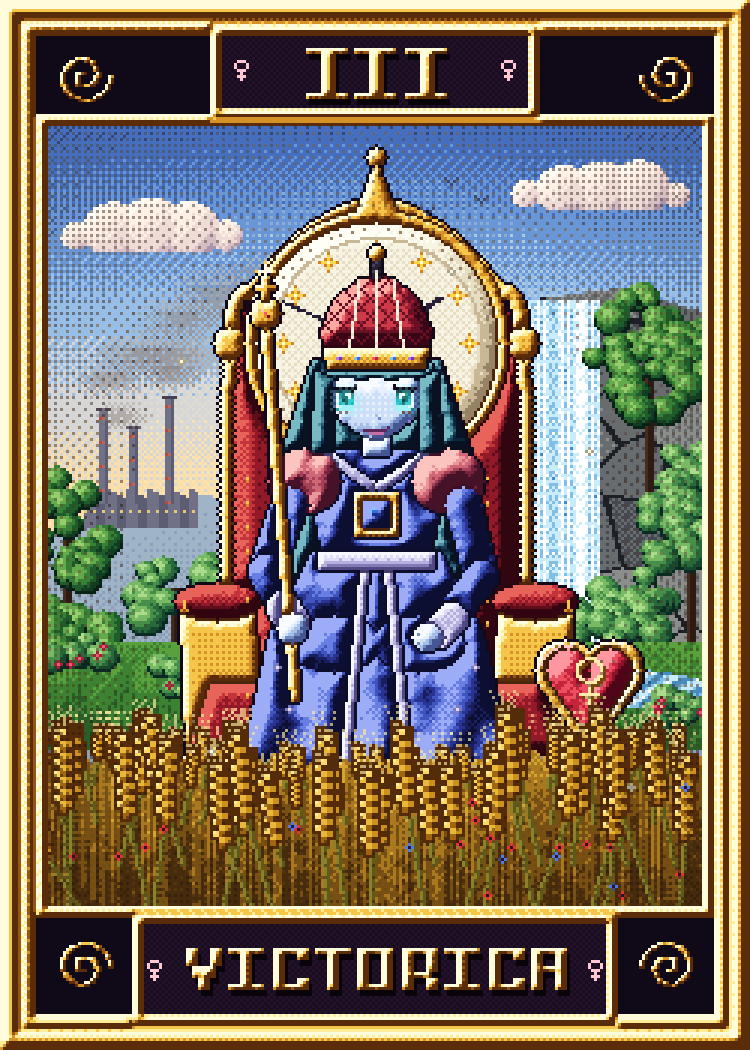
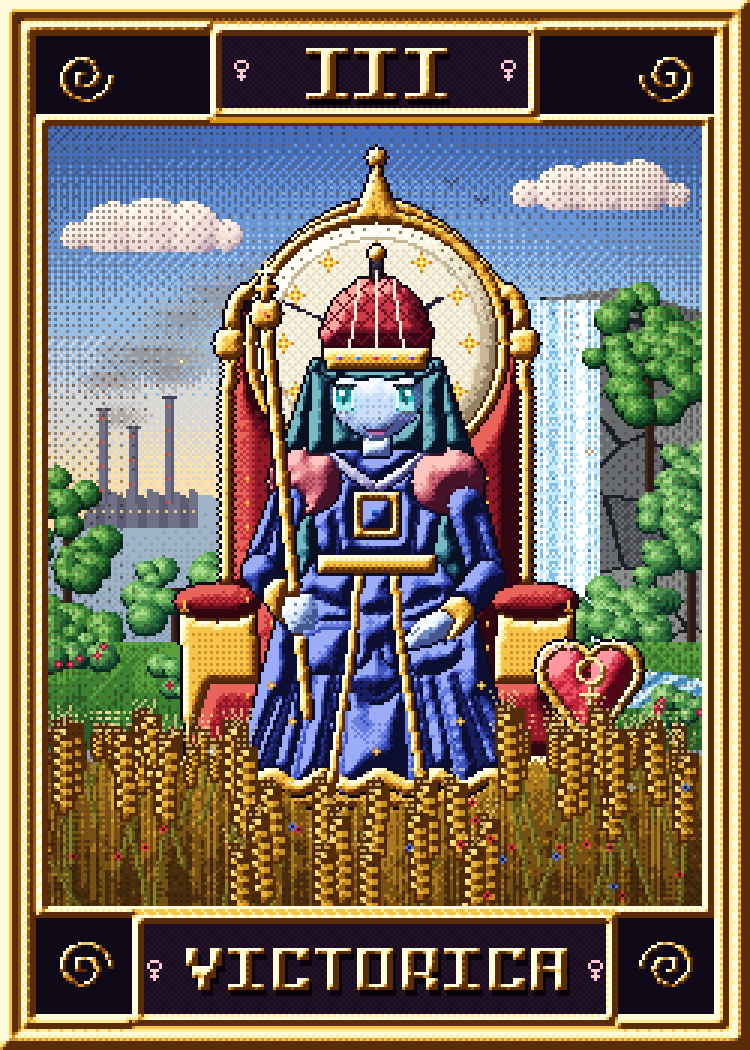
Tarot-Sleeves: Zwischenstand XII–XVI und III
Claude-Session: https://claude.ai/code/session_01HMsYu5Zq2Fg9ikmTkg7dDc

Changed region(s): [[0.276, 0.3048, 0.6747, 0.8838], [0.7053, 0.701, 0.736, 0.7314]]

diff --git a/data/sleeve-proposals/generator/tarot/t03_empress.py b/data/sleeve-proposals/generator/tarot/t03_empress.py
@@ -100,9 +100,11 @@ VELVET = [(50, 6, 16), (96, 14, 28), (146, 26, 40), (196, 52, 58), (232, 100, 90
 IVORY = [(150, 130, 100), (200, 184, 150), (232, 222, 196), (248, 244, 228), (255, 255, 246)]
 
 MATS = {
-    's': mat(SKINV, pillow=4, k=1.0, bias=0.14),
+    's': mat(SKINV, pillow=5, k=0.9, bias=0.06),
     'h': mat(HAIRV, pillow=4, k=1.8, noise=0.9, nscale=2, bias=0.05),
     'r': mat(ROBEB, pillow=5, k=1.5, folds=(0.3, 0.03, 0.7), bias=0.05),
+    'q': mat(ROBEB[:4], pillow=1, k=1.0, bias=-0.25),
+    'u': mat(ROBEB[2:], pillow=1, k=1.0, bias=0.1),
     'l': mat(LAV, pillow=2, k=1.3, bias=0.1),
     'p': mat(PINK, pillow=5, k=1.6, bias=0.05),
     'g': mat(GOLD, pillow=2, k=1.7, spec=True, spec_col=(255, 255, 230), bias=0.05),
@@ -162,37 +164,58 @@ f = Fig(W, H)
 # Haare hinten (lang, dunkeltürkis)
 f.part('hairB')
 f.poly([(104, 120), (146, 120), (156, 150), (158, 186), (150, 196), (100, 196), (92, 186), (94, 150)], 'h')
-# Kleid: Rock fällt über den Sitz
+# Kleid: Schoß (Oberschenkel nach vorn), Knie, dann fällt der Rock in Falten bis auf den Sockel
+hem = []
+for i in range(25):
+    x = 76 + i * (174 - 76) / 24
+    hem.append((x, 262 + 2 * math.sin(i * 1.4)))
 f.part('skirt')
-f.poly([(104, 184), (146, 184), (160, 210), (168, 246), (176, 264), (74, 264), (82, 246), (90, 210)], 'r')
-f.part('knees'); f.ellipse(111, 214, 15, 9, 'r'); f.ellipse(139, 214, 15, 9, 'r')
-f.part('hem'); f.poly([(76, 258), (174, 258), (177, 265), (73, 265)], 'l')
-f.part('panelL'); f.line(121, 190, 114, 258, 'l', w=2)
-f.part('panelR'); f.line(129, 190, 136, 258, 'l', w=2)
-# Oberkörper
+f.poly([(106, 186), (144, 186), (156, 200), (162, 222), (168, 246), (174, 262)] + hem[::-1] + [(76, 262), (82, 246), (88, 222), (94, 200)], 'r')
+f.part('lap', line=False); f.poly([(100, 196), (150, 196), (152, 214), (98, 214)], 'r')
+f.part('kneeL'); f.ellipse(110, 216, 13, 8, 'r')
+f.part('kneeR'); f.ellipse(140, 216, 13, 8, 'r')
+# Faltenwurf unterhalb der Knie: Täler (dunkel) und Grate (hell)
+f.part('folds', line=False)
+for (x0, y0, x1, y1, w0) in [(99, 224, 88, 258, 2.4), (111, 225, 106, 262, 1.8), (139, 225, 144, 262, 1.8), (151, 224, 162, 258, 2.4),
+                             (92, 232, 81, 258, 1.4), (158, 232, 169, 258, 1.4)]:
+    f.limb(x0, y0, x1, y1, 0.6, w0, 'q')
+for (x0, y0, x1, y1, w0) in [(105, 225, 97, 260, 1.4), (145, 225, 153, 260, 1.4), (116, 226, 113, 262, 1.0), (134, 226, 137, 262, 1.0)]:
+    f.limb(x0, y0, x1, y1, 0.5, w0, 'u')
+f.curve([(114, 222), (119, 230), (125, 233), (131, 230), (136, 222)], 'q', w=1.6)     # Mulde zwischen den Knien
+f.curve([(100, 212), (108, 208), (118, 208)], 'u', w=1.3); f.curve([(132, 208), (142, 208), (150, 212)], 'u', w=1.3)
+f.curve([(104, 198), (114, 202), (124, 204)], 'q', w=1.0); f.curve([(126, 204), (136, 202), (146, 198)], 'q', w=1.0)
+# goldene Borten: Saum und vordere Kante der Schleppe
+f.part('hemBorder'); f.curve([(hx, hy - 2) for hx, hy in hem], 'g', w=3)
+f.part('panelL'); f.curve([(119, 190), (117, 214), (113, 240), (110, 260)], 'g', w=2)
+f.part('panelR'); f.curve([(131, 190), (133, 214), (137, 240), (140, 260)], 'g', w=2)
+# Oberkörper (Mieder)
 f.part('torso')
-f.poly([(106, 150), (144, 150), (146, 166), (142, 188), (108, 188), (104, 166)], 'r')
+f.poly([(106, 150), (144, 150), (146, 166), (142, 190), (108, 190), (104, 166)], 'r')
+f.part('tfolds', line=False)
+f.limb(111, 170, 113, 186, 0.4, 1.0, 'q'); f.limb(139, 170, 137, 186, 0.4, 1.0, 'q')
 f.part('collarL'); f.line(107, 150, 124, 162, 'l', w=2)
 f.part('collarR'); f.line(143, 150, 126, 162, 'l', w=2)
 f.part('emblem'); f.rect(118, 164, 132, 178, 'g')
 f.part('emblemIn'); f.rect(121, 167, 129, 175, 'r')
-f.part('belt'); f.poly([(106, 184), (144, 184), (144, 189), (106, 189)], 'l')
+f.part('belt'); f.poly([(106, 185), (144, 185), (144, 190), (106, 190)], 'g')
 # Puffärmel (rosa-rot wie auf der Karte)
 f.part('puffL'); f.ellipse(101, 160, 12, 11, 'p')
 f.part('puffR'); f.ellipse(149, 160, 12, 11, 'p')
-# linker Arm (Betrachter): hält das Zepter
-f.part('armLl'); f.limb(96, 168, 88, 190, 6, 5.5, 'r')
-f.part('foreLl'); f.limb(88, 190, 96, 206, 5.5, 5, 'r')
-f.part('cuffLl'); f.limb(94, 202, 97, 207, 5.5, 5.5, 'l')
-f.part('scepter'); f.limb(98, 232, 88, 108, 1.8, 1.8, 'g')
+# linker Arm (Betrachter): Ellbogen nach außen, Hand umfasst das Zepter vor dem Knie
+f.part('armLl'); f.limb(95, 168, 86, 190, 6, 5.5, 'r')
+f.part('armLf', line=False); f.limb(92, 172, 87, 186, 0.4, 1.2, 'q')
+f.part('foreLl'); f.limb(86, 190, 96, 202, 5.5, 5, 'r')
+f.part('cuffLl'); f.limb(93, 198, 96, 202, 5.5, 5.5, 'g')
+f.part('scepter'); f.limb(102, 238, 88, 108, 1.8, 1.8, 'g')
 f.part('scepterOrb'); f.ellipse(88, 104, 5, 5, 'g')
 f.part('scepterCross'); f.rect(87, 92, 89, 99, 'g'); f.rect(85, 95, 91, 96, 'g')
-f.part('handLl'); f.ellipse(97, 209, 5, 5, 's')
-# rechter Arm: ruht auf dem Knie
-f.part('armRr'); f.limb(154, 168, 160, 192, 6, 5.5, 'r')
-f.part('foreRr'); f.limb(160, 192, 146, 210, 5.5, 5, 'r')
-f.part('cuffRr'); f.limb(150, 206, 146, 210, 5.5, 5.5, 'l')
-f.part('handRr'); f.ellipse(142, 212, 5, 4.5, 's')
+f.part('handLl'); f.poly([(95, 199), (103, 198), (105, 203), (104, 209), (97, 210), (94, 205)], 's')
+# rechter Arm: Unterarm liegt auf dem Oberschenkel, Hand ruht auf dem Knie
+f.part('armRr'); f.limb(155, 168, 162, 192, 6, 5.5, 'r')
+f.part('armRf', line=False); f.limb(158, 172, 162, 188, 0.4, 1.2, 'q')
+f.part('foreRr'); f.limb(162, 192, 148, 208, 5.5, 5, 'r')
+f.part('cuffRr'); f.limb(152, 204, 149, 207, 5.5, 5.5, 'g')
+f.part('handRr'); f.poly([(146, 203), (140, 206), (135, 212), (136, 215), (142, 214), (148, 211), (150, 206)], 's')
 # Kopf
 f.part('neck'); f.rect(121, 141, 129, 151, 's')
 cx, cy = 125, 128
@@ -202,8 +225,8 @@ f.poly([(cx - 15, cy + 3), (cx + 15, cy + 3), (cx + 12, cy + 11), (cx + 5, cy + 
 f.part('bangs')      # gerader Pony (Hime-Schnitt)
 f.poly([(cx - 18, cy + 2), (cx - 18, cy - 7), (cx - 12, cy - 11), (cx + 12, cy - 11), (cx + 18, cy - 7), (cx + 18, cy + 2),
         (cx + 15, cy - 2), (cx + 10, cy - 3), (cx + 5, cy - 2), (cx, cy - 3), (cx - 5, cy - 2), (cx - 10, cy - 3), (cx - 15, cy - 2)], 'h')
-f.part('lockL'); f.poly([(cx - 20, cy - 4), (cx - 15, cy - 2), (cx - 15, cy + 22), (cx - 21, cy + 22)], 'h')
-f.part('lockR'); f.poly([(cx + 20, cy - 4), (cx + 15, cy - 2), (cx + 15, cy + 22), (cx + 21, cy + 22)], 'h')
+f.part('lockL'); f.poly([(cx - 21, cy - 4), (cx - 16, cy - 2), (cx - 16, cy + 22), (cx - 22, cy + 22)], 'h')
+f.part('lockR'); f.poly([(cx + 21, cy - 4), (cx + 16, cy - 2), (cx + 16, cy + 22), (cx + 22, cy + 22)], 'h')
 # Krone: hohe rote Haube mit goldenen Spangen
 f.part('crown')
 f.poly([(cx - 16, cy - 8), (cx - 18, cy - 18), (cx - 14, cy - 28), (cx - 6, cy - 35), (cx, cy - 36), (cx + 6, cy - 35), (cx + 14, cy - 28),
@@ -225,19 +248,28 @@ def inside(x, y):
     return fig[int(y), int(x), 3] > 0 and tuple(cv.a[int(y), int(x)]) != OUT
 
 # ---------------------------------------------------------------- Gesicht (geisterhaft blau, leuchtende Augen)
-EYE = (40, 220, 230)
-big_eye(cv, 112, 129, EYE, w=6, h=8, glow_=True)
-big_eye(cv, 132, 129, EYE, w=6, h=8, flip=True, glow_=True)
+EYE = (30, 200, 214)
+big_eye(cv, 112, 128, EYE, w=6, h=9, glow_=True)
+big_eye(cv, 132, 128, EYE, w=6, h=9, flip=True, glow_=True)
 for (ex, ey) in [(115, 133), (135, 133)]:
-    glow(cv, ex, ey, 7, (120, 255, 250), k=0.5, mix=0.25)
-for x in range(113, 119): px(cv, x, 125, HAIRV[1])
-for x in range(132, 138): px(cv, x, 125, HAIRV[1])
-px(cv, 125, 138, SKINV[2]); px(cv, 126, 139, SKINV[1])
-# königliches, leicht spöttisches Lächeln
-for x in range(122, 129): px(cv, x, 143, (90, 40, 90))
-px(cv, 129, 142, (90, 40, 90)); px(cv, 121, 143, (90, 40, 90))
-for x in range(123, 128): px(cv, x, 144, (200, 110, 170))
-blush(cv, 113, 140, (170, 150, 240)); blush(cv, 135, 140, (170, 150, 240))
+    glow(cv, ex, ey, 7, (120, 255, 250), k=0.45, mix=0.22)
+# Brauen: elegant geschwungen, leicht hochmütig
+for (bx, d) in [(112, 1), (132, -1)]:
+    for i in range(6):
+        yb = 124 - (1 if (d > 0 and i >= 3) or (d < 0 and i <= 2) else 0)
+        px(cv, bx + i, yb, HAIRV[0])
+# Nase, Mund (spöttisches Lächeln, dunkles Lila), Wangen-/Kinnkontur
+px(cv, 126, 139, SKINV[1]); px(cv, 125, 140, SKINV[2])
+MC = (70, 30, 80)
+for x in range(122, 129): px(cv, x, 143, MC)
+px(cv, 129, 142, MC); px(cv, 130, 141, MC); px(cv, 121, 142, MC)
+for x in range(123, 128): px(cv, x, 144, (190, 110, 170))
+for (x, y) in [(113, 139), (112, 138), (114, 141), (137, 139), (138, 138), (136, 141), (118, 145), (132, 145), (121, 146), (129, 146)]:
+    px(cv, x, y, SKINV[1])
+for (bx, by) in [(113, 139), (133, 139)]:
+    for dx in range(5):
+        if (bx + dx + by) % 2 == 0:
+            blend_px(cv, bx + dx, by, (200, 150, 240), 0.6)
 # Krone: Rautenmuster + Spangen + Juwelen (wie das Karomuster auf der Karte)
 for y in range(cy - 40, cy - 12):
     for x in range(cx - 18, cx + 19):
@@ -255,9 +287,9 @@ for (x, y, c) in [(cx - 12, cy - 9, AMETH), (cx, cy - 9, RUBY), (cx + 12, cy - 9
 for (dx, dy, c) in [(0, 0, SAPH[2]), (1, 0, SAPH[2]), (0, 1, SAPH[1]), (1, 1, SAPH[1]), (0, -1, SAPH[3]), (-1, 0, SAPH[3])]:
     px(cv, 125 + dx - 1, 171 + dy - 1, c)
 # Sterne auf dem Rock (Lavendel)
-for (x, y) in [(96, 236), (152, 236), (104, 250), (146, 250), (92, 222), (158, 222)]:
+for (x, y) in [(97, 240), (153, 240), (125, 250), (90, 228), (160, 228)]:
     if inside(x, y):
-        sparkle(cv, x, y, LAV[3], r=1, c2=LAV[1])
+        sparkle(cv, x, y, GOLD[4], r=1, c2=GOLD[2])
 # Venus-Zeichen auf dem Schild (gold auf rotem Email)
 VX, VY = SHX, SHY - 7
 for (col, off) in [(GOLD7[1], 1), (GOLD7[5], 0)]:
@@ -278,8 +310,17 @@ for (tx, ty) in [(61, 200), (189, 200), (66, 250), (184, 250)]:
         px(cv, tx, ty + k, GOLD[3] if k < 3 else GOLD[1])
     px(cv, tx - 1, ty + 3, GOLD[2]); px(cv, tx + 1, ty + 3, GOLD[2])
 # Finger
-for (fx, fy) in [(100, 207), (100, 210), (139, 211), (139, 214)]:
-    px(cv, fx, fy, SKINV[1])
+# Finger um das Zepter (quer über den Stab) und auf dem Knie
+for fy in (201, 204, 207):
+    for fx in range(96, 104):
+        if (fx + fy) % 3 != 0 and inside(fx, fy):
+            px(cv, fx, fy, SKINV[1]) if fx in (96, 103) or fy == 207 else None
+for fy in (201, 204, 207):
+    px(cv, 98, fy, SKINV[1]); px(cv, 101, fy, SKINV[1])
+px(cv, 100, 199, SKINV[4]); px(cv, 101, 199, SKINV[4])
+for (x0, y0) in [(139, 209), (141, 210), (143, 209)]:
+    px(cv, x0, y0, SKINV[1]); px(cv, x0 - 1, y0 + 1, SKINV[1]); px(cv, x0 - 2, y0 + 2, SKINV[1])
+px(cv, 147, 205, SKINV[4]); px(cv, 145, 206, SKINV[4])
 
 # ---------------------------------------------------------------- Weizenfeld (vorne)
 WHEAT = [(110, 60, 10), (160, 100, 18), (204, 144, 30), (234, 184, 56), (250, 214, 100), (255, 238, 160)]
@@ -328,7 +369,7 @@ nw = noise(H, W, 3, seed=44)
 FIELD = [(70, 44, 12), (120, 80, 20), (170, 120, 30), (212, 164, 50), (240, 206, 100)]
 for y in range(250, AY1):
     for x in range(AX0, AX1):
-        top = 252 + math.sin(x * 0.45) * 1.5 + math.sin(x * 1.3) * 1.0
+        top = 252 + math.sin(x * 0.45) * 1.5 + math.sin(x * 1.3) * 1.0 + 16 * math.exp(-((x - 125) / 46) ** 4)
         if y >= top:
             # dichte senkrechte Halme: helle/dunkle Striche, oben heller
             ph = (x * 0.9 + math.sin(x * 0.37) * 3) % 3
@@ -342,8 +383,10 @@ for (yb, L, wd, n) in rows:
         x0 = AX0 + (i + 0.2 + rnd.random() * 0.6) * (AX1 - AX0) / n
         lean = rnd.uniform(-0.35, 0.35)
         hgt = (yb - 244) * rnd.uniform(0.45, 0.7)
-        if abs(x0 - 125) < 40 and yb < 290:
-            hgt *= 0.4
+        if abs(x0 - 125) < 46:
+            if yb < 280:
+                continue                     # vor dem Saum keine hohen Ähren
+            hgt *= 0.2
         ex, ey = x0 + math.sin(lean) * hgt, yb - hgt
         stalk(x0, min(AY1 - 1, yb), ex, ey)
         ear(int(ex), int(ey), L, wd, lean * 0.3)

diff --git a/data/sleeve-proposals/generator/tarot/t16_tower.py b/data/sleeve-proposals/generator/tarot/t16_tower.py
@@ -138,12 +138,13 @@ for (wx, wy, sd) in WINS:
 FL = Fig(W, H)
 FL.part('f', line=False)
 for (wx, wy, sd) in WINS:
-    for i, dx in enumerate((-3, -1, 1, 3)):
-        L = [13, 17, 15, 11][i] + rnd.uniform(-2, 2)
-        bend = sd * (1.5 + i * 0.6)
-        base = wy - 5
-        FL.poly([(wx + dx - 2, base + 2), (wx + dx + 2, base + 2), (wx + dx + bend * 0.6 + 1, base - L * 0.5),
-                 (wx + dx + bend, base - L), (wx + dx + bend * 0.4 - 1.5, base - L * 0.45)], 'f')
+    base = wy - 4
+    for i, dx in enumerate((-2, 0, 2)):
+        L = [12, 18, 11][i] + rnd.uniform(-2, 2)
+        wob = rnd.uniform(-1.5, 1.5)
+        FL.curve([(wx + dx, base + 2), (wx + dx + sd * 2 + wob, base - L * 0.4), (wx + dx + sd * 4 - wob, base - L * 0.75),
+                  (wx + dx + sd * 5, base - L)], 'f', w=4.5 if i == 1 else 3.5, w1=0.8)
+    FL.ellipse(wx, base + 1, 4.5, 3, 'f')
 FL.outline(k='K')
 frgba = FL.render({'f': mat(FIRE, pillow=3, k=1.2, bias=0.2, noise=1.2, nscale=2)}, outline_col=(110, 20, 6))
 cv.paste(frgba, 0, 0)
@@ -357,6 +358,10 @@ def faller(x, y, flip):
     cv.paste(rg, 0, 0)
     # entsetzte Augen/Mund (kopfüber)
     px(cv, x, y + 23, (20, 10, 10)); px(cv, x + 2, y + 23, (20, 10, 10)); px(cv, x + 1, y + 21, (90, 20, 20))
+
+
+faller(146, 166, 1)
+faller(222, 190, -1)
 
 
 def fire_drop(x, y, s=1.0):
